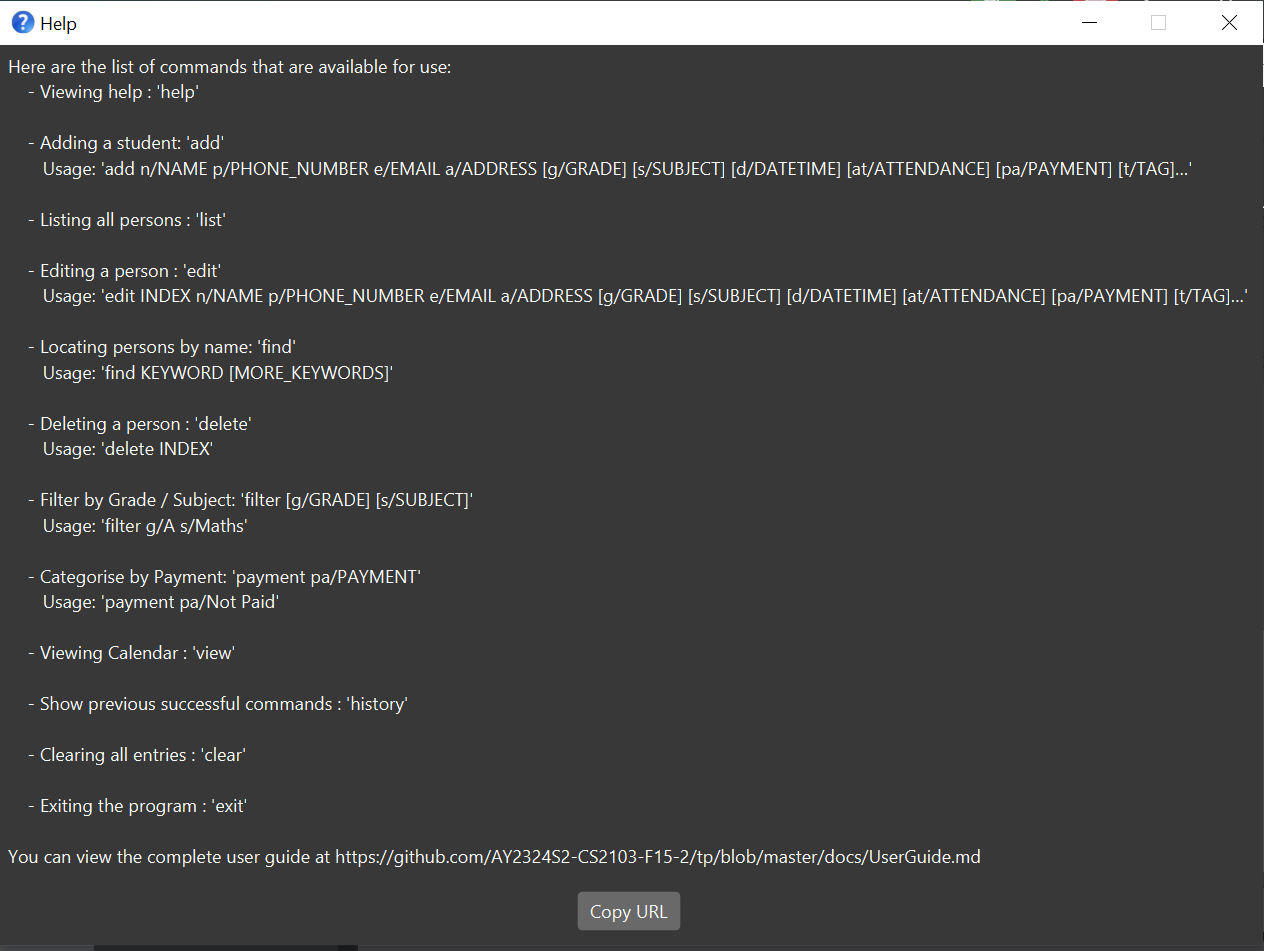
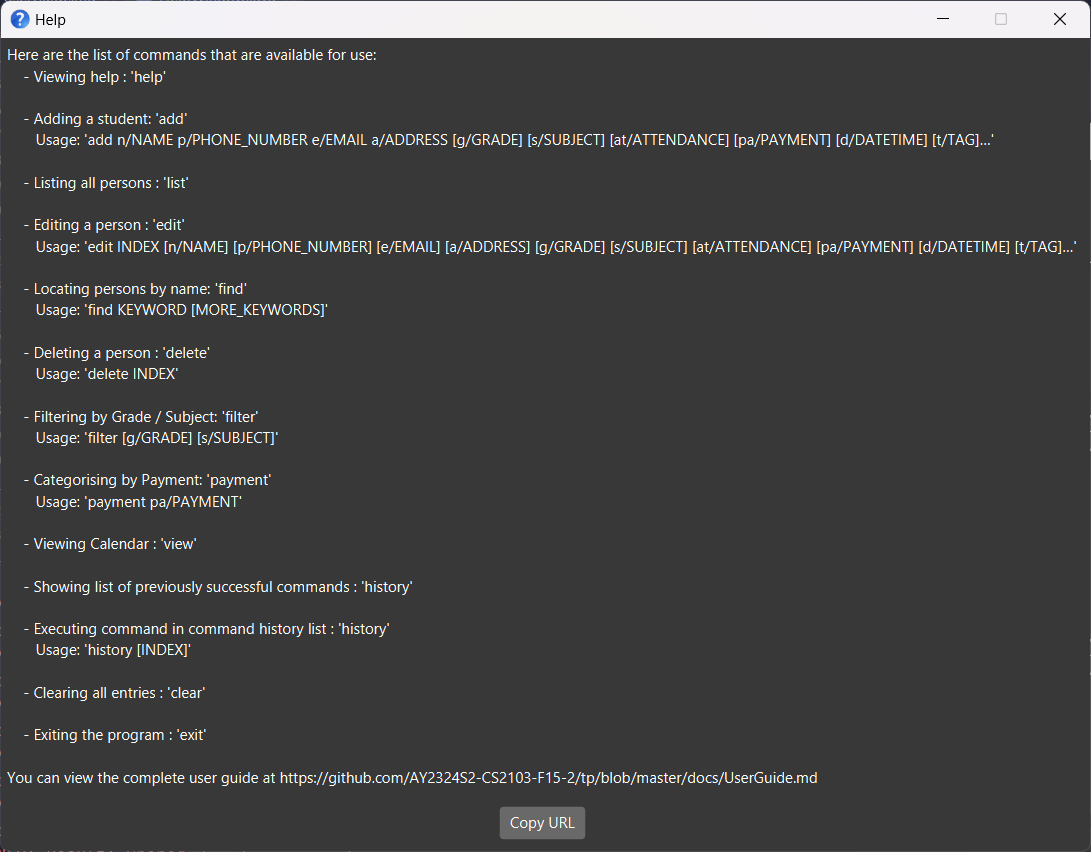
Help window fix

diff --git a/src/main/java/seedu/address/ui/HelpWindow.java b/src/main/java/seedu/address/ui/HelpWindow.java
@@ -22,21 +22,23 @@ public class HelpWindow extends UiPart<Stage> {
                     + "    - Viewing help : 'help'\n\n"
                     + "    - Adding a student: 'add'\n"
                     + "       Usage: 'add n/NAME p/PHONE_NUMBER e/EMAIL a/ADDRESS [g/GRADE] [s/SUBJECT] "
-                    + "[d/DATETIME] [at/ATTENDANCE] [pa/PAYMENT] [t/TAG]…'\n\n"
+                    + "[at/ATTENDANCE] [pa/PAYMENT] [d/DATETIME] [t/TAG]…'\n\n"
                     + "    - Listing all persons : 'list'\n\n"
                     + "    - Editing a person : 'edit'\n"
-                    + "       Usage: 'edit INDEX n/NAME p/PHONE_NUMBER e/EMAIL a/ADDRESS [g/GRADE] [s/SUBJECT] "
-                    + "[d/DATETIME] [at/ATTENDANCE] [pa/PAYMENT] [t/TAG]…'\n\n"
+                    + "       Usage: 'edit INDEX [n/NAME] [p/PHONE_NUMBER] [e/EMAIL] [a/ADDRESS] [g/GRADE] [s/SUBJECT] "
+                    + "[at/ATTENDANCE] [pa/PAYMENT] [d/DATETIME] [t/TAG]…'\n\n"
                     + "    - Locating persons by name: 'find'\n"
                     + "       Usage: 'find KEYWORD [MORE_KEYWORDS]'\n\n"
                     + "    - Deleting a person : 'delete'\n"
                     + "       Usage: 'delete INDEX'\n\n"
-                    + "    - Filter by Grade / Subject: 'filter [g/GRADE] [s/SUBJECT]'\n"
-                    + "       Usage: 'filter g/A s/Maths'\n\n"
-                    + "    - Categorise by Payment: 'payment pa/PAYMENT'\n"
-                    + "       Usage: 'payment pa/Not Paid'\n\n"
+                    + "    - Filtering by Grade / Subject: 'filter'\n"
+                    + "       Usage: 'filter [g/GRADE] [s/SUBJECT]'\n\n"
+                    + "    - Categorising by Payment: 'payment'\n"
+                    + "       Usage: 'payment pa/PAYMENT'\n\n"
                     + "    - Viewing Calendar : 'view'\n\n"
-                    + "    - Show previous successful commands : 'history [INDEX]'\n\n"
+                    + "    - Showing list of previously successful commands : 'history'\n\n"
+                    + "    - Executing command in command history list : 'history'\n"
+                    + "       Usage: 'history [INDEX]'\n\n"
                     + "    - Clearing all entries : 'clear'\n\n"
                     + "    - Exiting the program : 'exit'\n\n"
                     + "You can view the complete user guide at "

diff --git a/docs/UserGuide.md b/docs/UserGuide.md
@@ -100,7 +100,7 @@ Format: `list`
 
 Edits an existing student in the address book.
 
-Format: `edit INDEX [n/NAME] [p/PHONE] [e/EMAIL] [a/ADDRESS] [g/GRADE] [s/SUBJECT] [at/ATTENDANCE] [pa/PAYMENT] [d/DATETIME]… [t/TAG]…`
+Format: `edit INDEX [n/NAME] [p/PHONE_NUMBER] [e/EMAIL] [a/ADDRESS] [g/GRADE] [s/SUBJECT] [at/ATTENDANCE] [pa/PAYMENT] [d/DATETIME]… [t/TAG]…`
 
 * Edits the student at the specified `INDEX`. The index refers to the index number shown in the displayed student list. The index **must be a positive integer** 1, 2, 3, …
 * At least one of the optional fields must be provided.
@@ -205,7 +205,7 @@ Examples:
 ![history](images/commandHistory.png)
 
 * `history 1` runs the `list` command and returns the student list. It also outputs the success message of `list`.
-![history 1](images/commndHistory1.png)
+![history 1](images/commandHistory1.png)
 
 
 
@@ -241,6 +241,7 @@ Furthermore, certain edits can cause the AddressBook to behave in unexpected way
 Team size: 4
 
 1. Improve readability of command history list: As of v1.3, the output of each command in the history is verbose, and introduces a lot of user-unfriendly code to the user. We plan to show only the command output that was typed by the user.
+2. Help Window improvements: 
 
 --------------------------------------------------------------------------------------------------------------------
 
